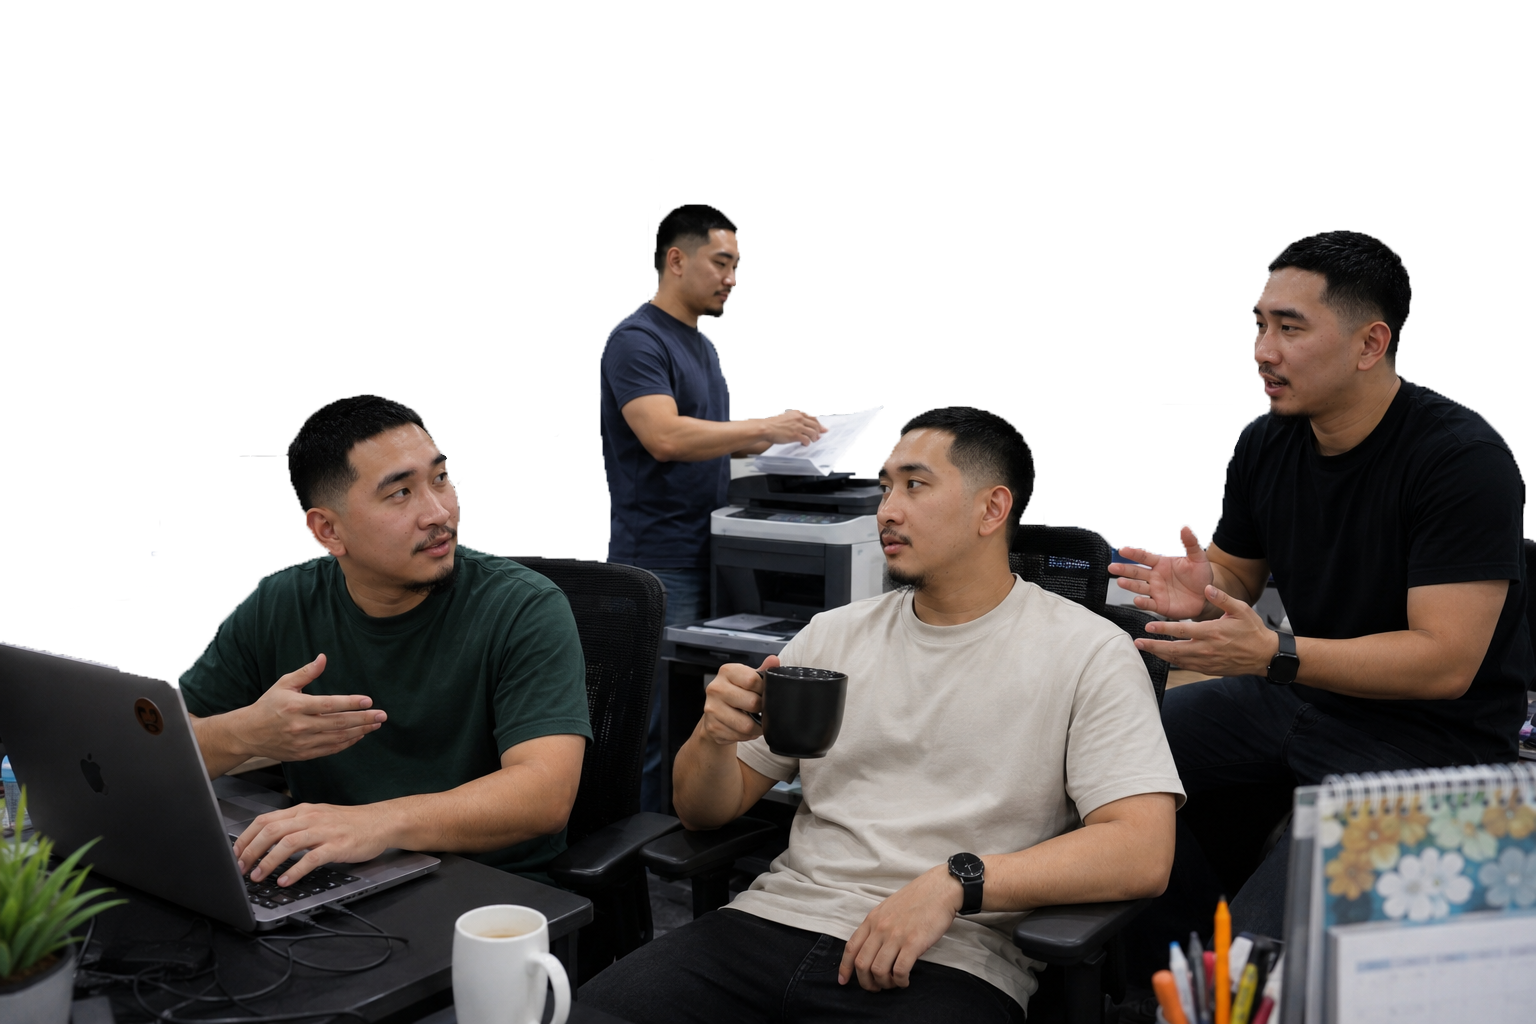
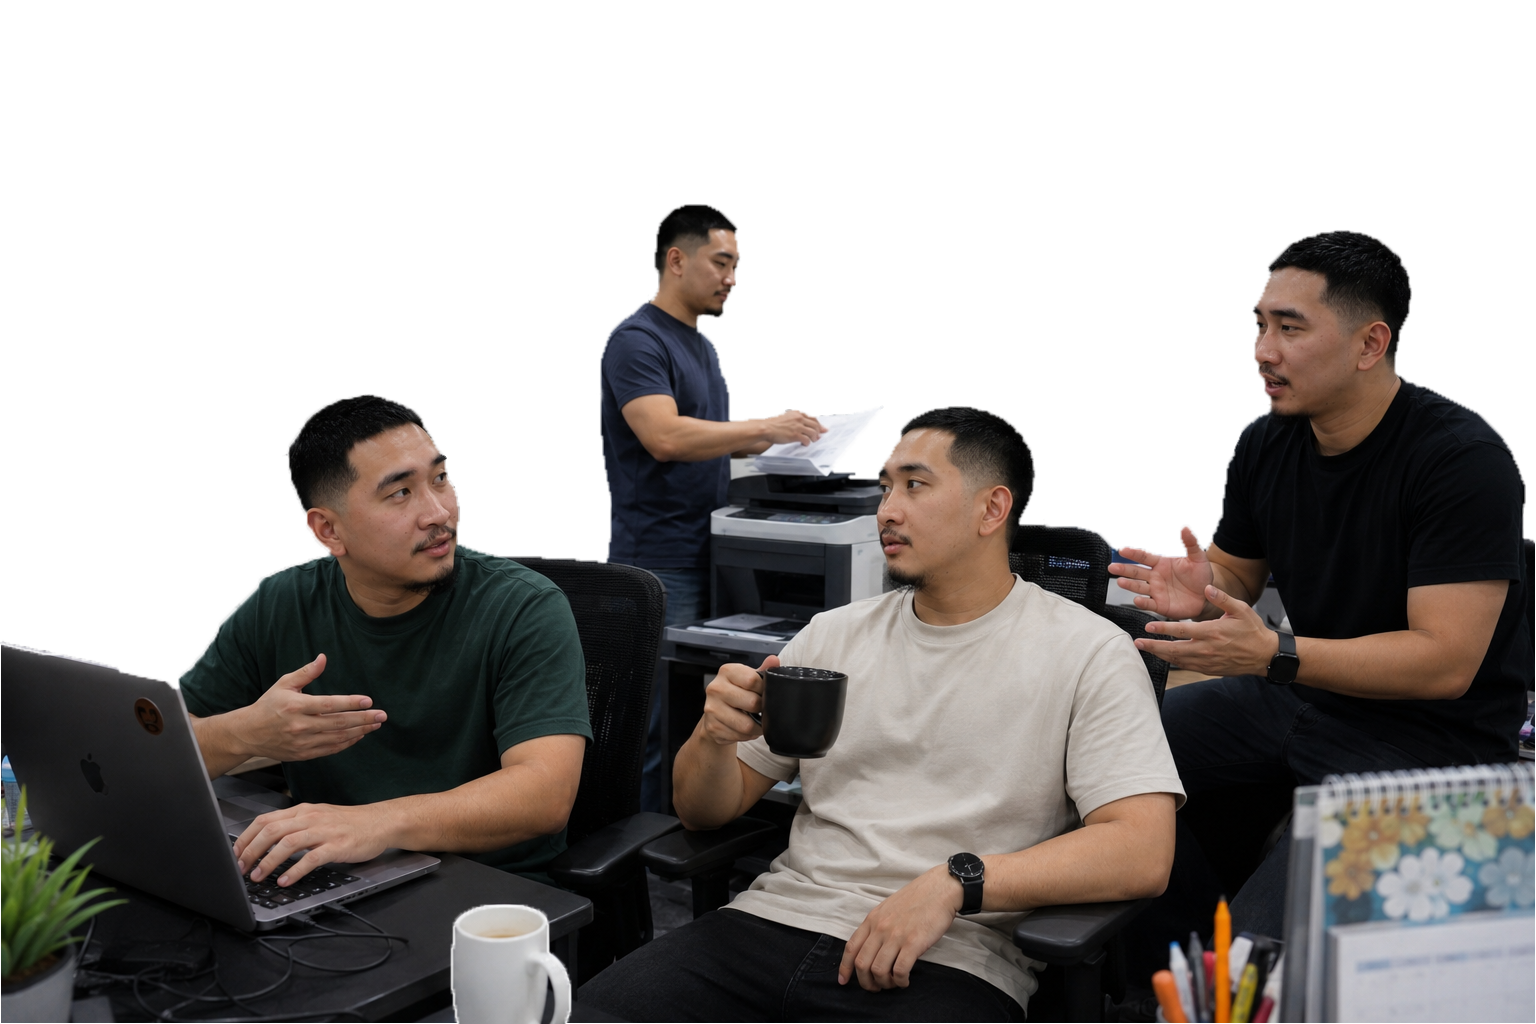
updated

Changed region(s): [[0.2812, 0.9688, 0.3125, 1.0], [0.1875, 0.5312, 0.2188, 0.5625], [0.0, 0.625, 0.0312, 0.6562]]

diff --git a/src/components/Experiencesection.jsx b/src/components/Experiencesection.jsx
@@ -1,4 +1,4 @@
-import { useEffect, useRef } from "react";
+import { useEffect, useRef, useState } from "react";
 import ScrollStack, { ScrollStackItem } from "../components/ScrollStack";
 import Particles from "../components/Particles";
 
@@ -98,6 +98,8 @@ const experience = [
 export default function ExperienceSection() {
     const headerRef = useRef(null);
 
+    const [isMobile, setIsMobile] = useState(() => window.innerWidth <= 600);
+
     /* ── Scroll reveal for header ── */
     useEffect(() => {
         const revealEls = document.querySelectorAll(".exp-sr");
@@ -116,6 +118,12 @@ export default function ExperienceSection() {
         );
         revealEls.forEach((el) => obs.observe(el));
         return () => obs.disconnect();
+    }, []);
+
+    useEffect(() => {
+        const handler = () => setIsMobile(window.innerWidth <= 600);
+        window.addEventListener("resize", handler);
+        return () => window.removeEventListener("resize", handler);
     }, []);
 
     return (
@@ -355,9 +363,9 @@ export default function ExperienceSection() {
                     ref={headerRef}
                     style={{
                         position: "sticky",
-                        top: 0,
+                        top: isMobile ? 45 : 0,
                         zIndex: 10,
-                        padding: "clamp(28px,5vw,72px) clamp(16px,5vw,80px) 24px",
+                        padding: "clamp(28px,5vw,72px) clamp(16px,5vw,80px) 30px",
                         borderBottom: "0.5px solid rgba(255,255,255,0.05)",
                         background: "#0a0a0a",
                     }}
@@ -397,188 +405,187 @@ export default function ExperienceSection() {
                 </div>
 
                 {/* ScrollStack */}
-                <ScrollStack itemStackDistance={14} baseScale={0.04} topOffset={110}>
-                    {experience.map(({ index, company, role, period, duration, desc, current, award, images, bullets, logo }, i) => (
-                        <ScrollStackItem key={role + i} itemClassName="av-exp-item">
-                            {/* Outer wrapper — NO minHeight, just padding for spacing */}
-                            <div style={{
-                                padding: "0 clamp(8px, 2vw, 40px)",
-                                paddingBottom: "clamp(16px, 3vw, 32px)",
-                                boxSizing: "border-box",
-                                width: "100%",
-                            }}>
-                                <div
-                                    className="exp-card"
-                                    style={{
-                                        "--exp-card-bg": i % 2 === 0 ? "#242424" : "#2e2e2e",
-                                        position: "sticky",
-                                        top: `${110 + 14 * i}px`,
-                                        zIndex: i + 1,
-                                    }}
-                                >
-                                    {/* ── Top: index + content + meta ── */}
-                                    <div className="exp-card-top">
-                                        {/* Left: all content */}
-                                        <div style={{ flex: 1, minWidth: 0 }}>
-                                            {/* Index */}
-                                            <div style={{
-                                                fontFamily: "'DM Mono', monospace",
-                                                fontSize: "11px",
-                                                color: "#888",
-                                                marginBottom: "16px",
-                                            }}>
-                                                {index}
-                                            </div>
+                <ScrollStack itemClassName="SS" itemStackDistance={14} baseScale={0.04} topOffset={isMobile ? 170 : 200}>                    {experience.map(({ index, company, role, period, duration, desc, current, award, images, bullets, logo }, i) => (
+                    <ScrollStackItem key={role + i} itemClassName="av-exp-item">
+                        {/* Outer wrapper — NO minHeight, just padding for spacing */}
+                        <div style={{
+                            padding: "0 clamp(8px, 2vw, 40px)",
+                            paddingBottom: "clamp(16px, 3vw, 32px)",
+                            boxSizing: "border-box",
+                            width: "100%",
+                        }}>
+                            <div
+                                className="exp-card"
+                                style={{
+                                    "--exp-card-bg": i % 2 === 0 ? "#242424" : "#2e2e2e",
+                                    position: "sticky",
+                                    top: `${110 + 14 * i}px`,
+                                    zIndex: i + 1,
+                                }}
+                            >
+                                {/* ── Top: index + content + meta ── */}
+                                <div className="exp-card-top">
+                                    {/* Left: all content */}
+                                    <div style={{ flex: 1, minWidth: 0 }}>
+                                        {/* Index */}
+                                        <div style={{
+                                            fontFamily: "'DM Mono', monospace",
+                                            fontSize: "11px",
+                                            color: "#888",
+                                            marginBottom: "16px",
+                                        }}>
+                                            {index}
+                                        </div>
 
-                                            {/* Role + badges */}
-                                            <div className="exp-role-row">
-                                                <span style={{
-                                                    fontFamily: "'DM Serif Display', serif",
-                                                    fontSize: "clamp(20px, 3.5vw, 40px)",
-                                                    color: "#f5f5f0",
-                                                    fontWeight: 400,
-                                                    lineHeight: 1.1,
-                                                }}>
-                                                    {role}
-                                                </span>
-                                                {current && (
-                                                    <span
-                                                        className="exp-live-tag"
-                                                        style={{
-                                                            fontFamily: "'DM Mono', monospace",
-                                                            fontSize: "9px",
-                                                            color: "#f5f5f0",
-                                                            letterSpacing: "0.1em",
-                                                            border: "0.5px solid rgba(255,255,255,0.3)",
-                                                            padding: "2px 8px",
-                                                            textTransform: "uppercase",
-                                                            flexShrink: 0,
-                                                        }}
-                                                    >
-                                                        Live
-                                                    </span>
-                                                )}
-                                                {award && (
-                                                    <span style={{
+                                        {/* Role + badges */}
+                                        <div className="exp-role-row">
+                                            <span style={{
+                                                fontFamily: "'DM Serif Display', serif",
+                                                fontSize: "clamp(20px, 3.5vw, 40px)",
+                                                color: "#f5f5f0",
+                                                fontWeight: 400,
+                                                lineHeight: 1.1,
+                                            }}>
+                                                {role}
+                                            </span>
+                                            {current && (
+                                                <span
+                                                    className="exp-live-tag"
+                                                    style={{
                                                         fontFamily: "'DM Mono', monospace",
                                                         fontSize: "9px",
-                                                        color: "#888",
-                                                        display: "flex",
-                                                        alignItems: "center",
-                                                        gap: "5px",
+                                                        color: "#f5f5f0",
+                                                        letterSpacing: "0.1em",
+                                                        border: "0.5px solid rgba(255,255,255,0.3)",
+                                                        padding: "2px 8px",
+                                                        textTransform: "uppercase",
                                                         flexShrink: 0,
-                                                    }}>
-                                                        <Icons.Cert /> {award}
-                                                    </span>
-                                                )}
-                                            </div>
-
-                                            {/* Company row */}
-                                            <div className="exp-company-row">
-                                                {logo && (
-                                                    <img
-                                                        src={logo}
-                                                        alt={company}
-                                                        style={{
-                                                            width: "26px",
-                                                            height: "26px",
-                                                            objectFit: "contain",
-                                                            borderRadius: "6px",
-                                                            background: "rgba(255,255,255,0.06)",
-                                                            padding: "3px",
-                                                            border: "0.5px solid rgba(255,255,255,0.1)",
-                                                            flexShrink: 0,
-                                                        }}
-                                                    />
-                                                )}
+                                                    }}
+                                                >
+                                                    Live
+                                                </span>
+                                            )}
+                                            {award && (
                                                 <span style={{
                                                     fontFamily: "'DM Mono', monospace",
-                                                    fontSize: "10px",
+                                                    fontSize: "9px",
                                                     color: "#888",
-                                                    textTransform: "uppercase",
-                                                    letterSpacing: "0.06em",
+                                                    display: "flex",
+                                                    alignItems: "center",
+                                                    gap: "5px",
+                                                    flexShrink: 0,
                                                 }}>
-                                                    {company}
+                                                    <Icons.Cert /> {award}
                                                 </span>
-                                            </div>
-
-                                            {/* Description */}
-                                            <p className="exp-desc">{desc}</p>
-
-                                            {/* Bullets */}
-                                            {bullets?.length > 0 && (
-                                                <ul className="exp-bullets">
-                                                    {bullets.map((b, j) => (
-                                                        <li key={j} className="exp-bullet">
-                                                            <span className="exp-bullet-dot" />
-                                                            {b}
-                                                        </li>
-                                                    ))}
-                                                </ul>
                                             )}
                                         </div>
 
-                                        {/* Right: period + duration */}
-                                        <div className="exp-meta">
-                                            <span style={{
-                                                fontFamily: "'DM Mono', monospace",
-                                                fontSize: "11px",
-                                                color: "#888",
-                                                whiteSpace: "nowrap",
-                                            }}>
-                                                {period}
-                                            </span>
+                                        {/* Company row */}
+                                        <div className="exp-company-row">
+                                            {logo && (
+                                                <img
+                                                    src={logo}
+                                                    alt={company}
+                                                    style={{
+                                                        width: "26px",
+                                                        height: "26px",
+                                                        objectFit: "contain",
+                                                        borderRadius: "6px",
+                                                        background: "rgba(255,255,255,0.06)",
+                                                        padding: "3px",
+                                                        border: "0.5px solid rgba(255,255,255,0.1)",
+                                                        flexShrink: 0,
+                                                    }}
+                                                />
+                                            )}
                                             <span style={{
                                                 fontFamily: "'DM Mono', monospace",
                                                 fontSize: "10px",
-                                                color: "rgba(255,255,255,0.2)",
-                                                whiteSpace: "nowrap",
+                                                color: "#888",
+                                                textTransform: "uppercase",
+                                                letterSpacing: "0.06em",
                                             }}>
-                                                {duration}
+                                                {company}
                                             </span>
                                         </div>
+
+                                        {/* Description */}
+                                        <p className="exp-desc">{desc}</p>
+
+                                        {/* Bullets */}
+                                        {bullets?.length > 0 && (
+                                            <ul className="exp-bullets">
+                                                {bullets.map((b, j) => (
+                                                    <li key={j} className="exp-bullet">
+                                                        <span className="exp-bullet-dot" />
+                                                        {b}
+                                                    </li>
+                                                ))}
+                                            </ul>
+                                        )}
                                     </div>
 
-                                    {/* ── Gallery ── */}
-                                    {images?.length > 0 && (
-                                        <div>
-                                            <div className="exp-gallery-label">
-                                                Gallery · {images.length} photo{images.length > 1 ? "s" : ""}
-                                            </div>
-                                            <div
-                                                className="exp-gallery-grid"
-                                                style={{
-                                                    gridTemplateColumns:
-                                                        images.length === 1
-                                                            ? "1fr"
-                                                            : images.length === 2
-                                                                ? "1fr 1fr"
-                                                                : "repeat(3, 1fr)",
-                                                }}
-                                            >
-                                                {images.map((src, j) => (
-                                                    <div
-                                                        key={j}
-                                                        className="exp-gallery-img-wrap"
-                                                        style={{
-                                                            height: images.length === 1
-                                                                ? "clamp(140px, 28vw, 260px)"
-                                                                : "clamp(100px, 18vw, 180px)",
-                                                        }}
-                                                    >
-                                                        <img src={src} alt={`${company}`} />
-                                                        <div className="exp-gallery-num">
-                                                            {String(j + 1).padStart(2, "0")}
-                                                        </div>
-                                                    </div>
-                                                ))}
-                                            </div>
-                                        </div>
-                                    )}
+                                    {/* Right: period + duration */}
+                                    <div className="exp-meta">
+                                        <span style={{
+                                            fontFamily: "'DM Mono', monospace",
+                                            fontSize: "11px",
+                                            color: "#888",
+                                            whiteSpace: "nowrap",
+                                        }}>
+                                            {period}
+                                        </span>
+                                        <span style={{
+                                            fontFamily: "'DM Mono', monospace",
+                                            fontSize: "10px",
+                                            color: "rgba(255,255,255,0.2)",
+                                            whiteSpace: "nowrap",
+                                        }}>
+                                            {duration}
+                                        </span>
+                                    </div>
                                 </div>
+
+                                {/* ── Gallery ── */}
+                                {images?.length > 0 && (
+                                    <div>
+                                        <div className="exp-gallery-label">
+                                            Gallery · {images.length} photo{images.length > 1 ? "s" : ""}
+                                        </div>
+                                        <div
+                                            className="exp-gallery-grid"
+                                            style={{
+                                                gridTemplateColumns:
+                                                    images.length === 1
+                                                        ? "1fr"
+                                                        : images.length === 2
+                                                            ? "1fr 1fr"
+                                                            : "repeat(3, 1fr)",
+                                            }}
+                                        >
+                                            {images.map((src, j) => (
+                                                <div
+                                                    key={j}
+                                                    className="exp-gallery-img-wrap"
+                                                    style={{
+                                                        height: images.length === 1
+                                                            ? "clamp(140px, 28vw, 260px)"
+                                                            : "clamp(100px, 18vw, 180px)",
+                                                    }}
+                                                >
+                                                    <img src={src} alt={`${company}`} />
+                                                    <div className="exp-gallery-num">
+                                                        {String(j + 1).padStart(2, "0")}
+                                                    </div>
+                                                </div>
+                                            ))}
+                                        </div>
+                                    </div>
+                                )}
                             </div>
-                        </ScrollStackItem>
-                    ))}
+                        </div>
+                    </ScrollStackItem>
+                ))}
                 </ScrollStack>
             </section>
         </>

diff --git a/src/views/contact.jsx b/src/views/contact.jsx
@@ -1,8 +1,8 @@
 import { Mail, Phone, MapPin, ArrowUpRight } from "lucide-react";
 
 const contacts = [
-    { Icon: Mail, label: "Email", value: "adrian@email.com" },
-    { Icon: Phone, label: "Phone", value: "+63 912 345 6789" },
+    { Icon: Mail, label: "Email", value: "venturaadrian999@email.com" },
+    { Icon: Phone, label: "Phone", value: "+63 563 365 086" },
     { Icon: MapPin, label: "Location", value: "Baguio City, Philippines" },
 ];
 
